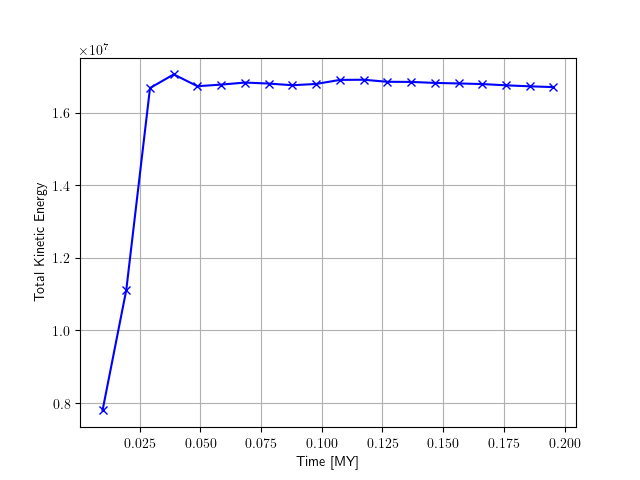
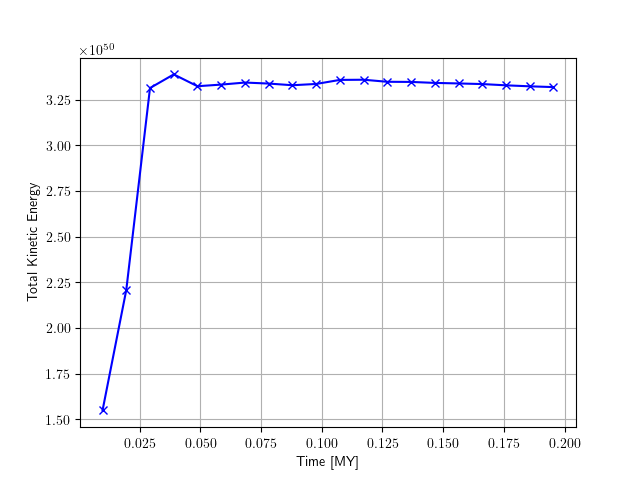
energy fixed

diff --git a/spherical1d/polytrope_1d_spherical/check.py b/spherical1d/polytrope_1d_spherical/check.py
@@ -51,6 +51,9 @@ Uthermal_ref = np.array(data["PartType0"]["InternalEnergy"], dtype = FloatType)
 Accel_ref = np.array(data["PartType0"]["Acceleration"], dtype = FloatType)[:,0]
 GradPress_ref = np.array(data["PartType0"]["PressureGradient"], dtype = FloatType)[:,0]
 UnitTime = 0.977 #in MY
+CGSTime = UnitTime*31.6e+12
+CGSMass = 1.988e+33
+CGSlenght = 3.086e+18
 
 
 time = []
@@ -66,10 +69,8 @@ totUkin = np.zeros(20)
 totUtot = np.zeros(20)
 Uthermal_all = np.empty((0,i_snap))
 Ukinetic_all = np.empty((0,i_snap))
-Utot_all = Uthermal_all + Ukinetic_all
-Ufond = kb*T #Uthermal_ref[Uthermal_ref.size-1]
-print(Ufond)
-
+Utot_all = (Uthermal_all + Ukinetic_all)
+Ufond =  kb*T #Uthermal_ref[Uthermal_ref.size-1]
 
 
 
@@ -103,9 +104,9 @@ while True:
     Ukinetic = 0.5*Velocity**2*Mass
 
     totRadMom[i_snap-1] = RadMom.sum()
-    totUtherm[i_snap-1] = Uthermal.sum() - Ufond
-    totUkin[i_snap-1] = Ukinetic.sum()
-    totUtot[i_snap-1] = Uthermal.sum() - Ufond + Ukinetic.sum()
+    totUtherm[i_snap-1] = (Uthermal.sum() - Ufond)*CGSMass*CGSlenght**2/CGSTime**2
+    totUkin[i_snap-1] = Ukinetic.sum()*CGSMass*CGSlenght**2/CGSTime**2
+    totUtot[i_snap-1] = (Uthermal.sum() - Ufond + Ukinetic.sum())*CGSMass*CGSlenght**2/CGSTime**2
 
     
     
@@ -315,8 +316,8 @@ fig.savefig(simulation_directory+"/plots/TotalUkin")
 #  Total Energy
 fig, ax = plt.subplots()
 ax.plot(time, totUtot, marker='x', linestyle='-', color='b')
-ax.set_xlabel("Time [MY]")
-ax.set_ylabel("Total Energy")
+ax.set_xlabel("Time [MYs]")
+ax.set_ylabel("Total Energy [ergs]")
 #ax.set_xscale("log")
 #ax.set_yscale("log")
 ax.grid(True)
